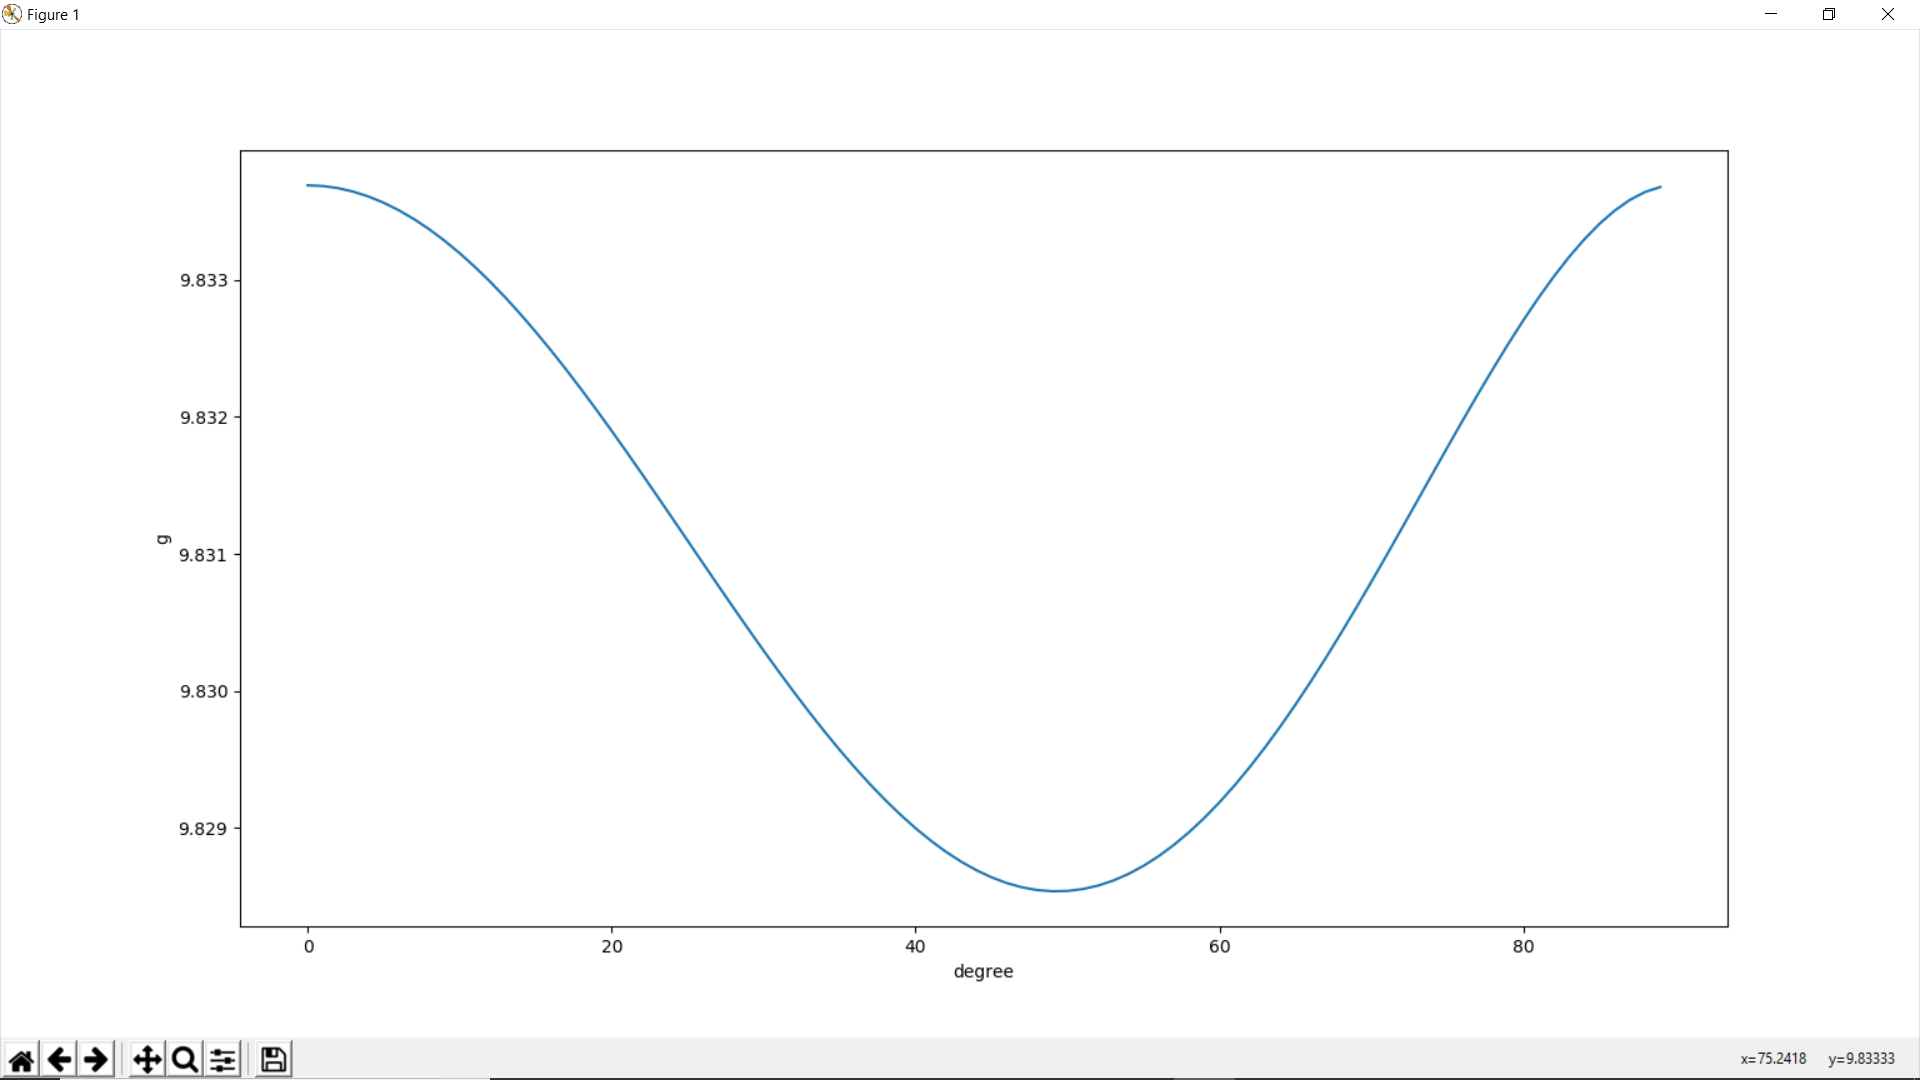
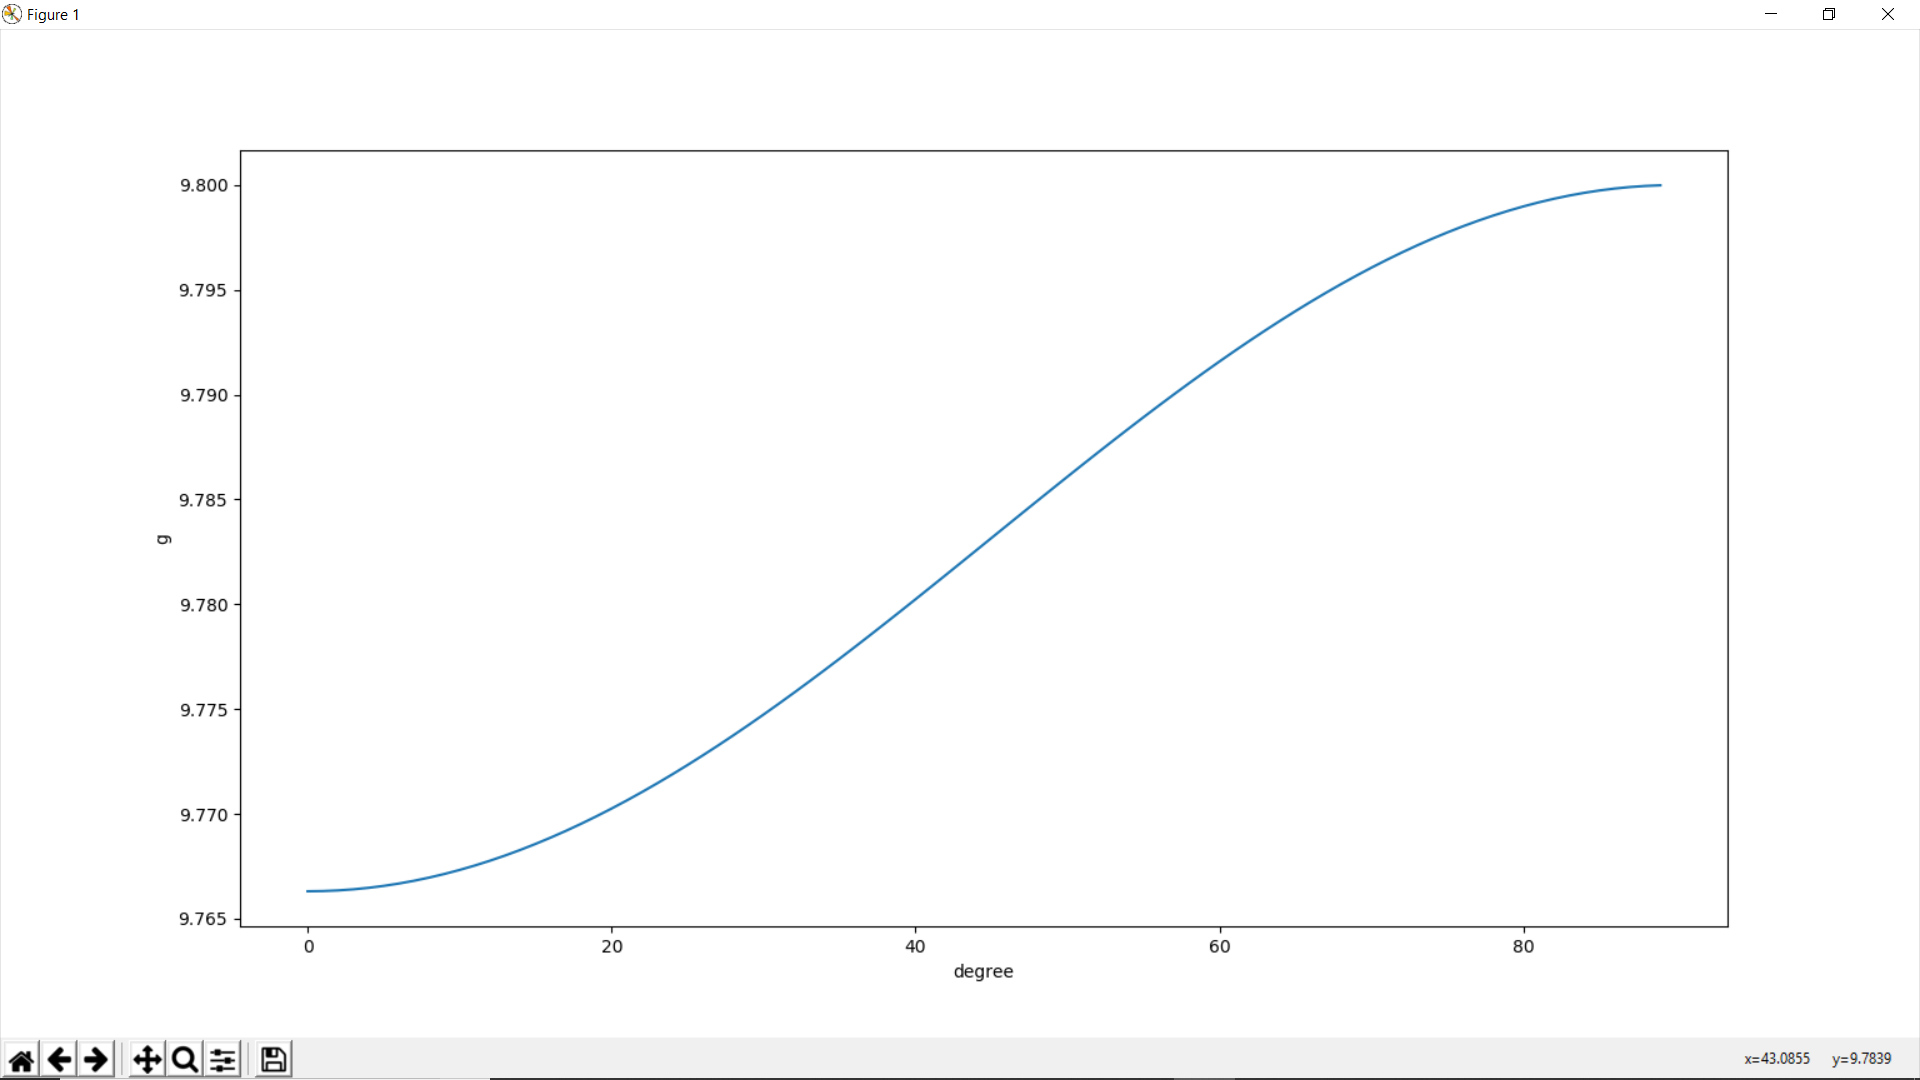
corrected q9

diff --git a/question9/question9.py b/question9/question9.py
@@ -5,11 +5,11 @@ g=9.8
 w=2*math.pi/(24*3600)
 r=6371000
 p=w*w*r
-prem=p*(p + 2*g)
+prem=p*(p - 2*g)
 o=array.arange(0,90,1)
 a=[]
 for O in o:
-	a.append(math.sqrt(g*g+(math.cos(math.radians(O)*math.cos(math.radians(O))))*prem))
+	a.append(math.sqrt(g*g+(math.cos(math.radians(O))*math.cos(math.radians(O)))*prem))
 graph.xlabel("degree")
 graph.ylabel("g")
 graph.plot(o,a)
